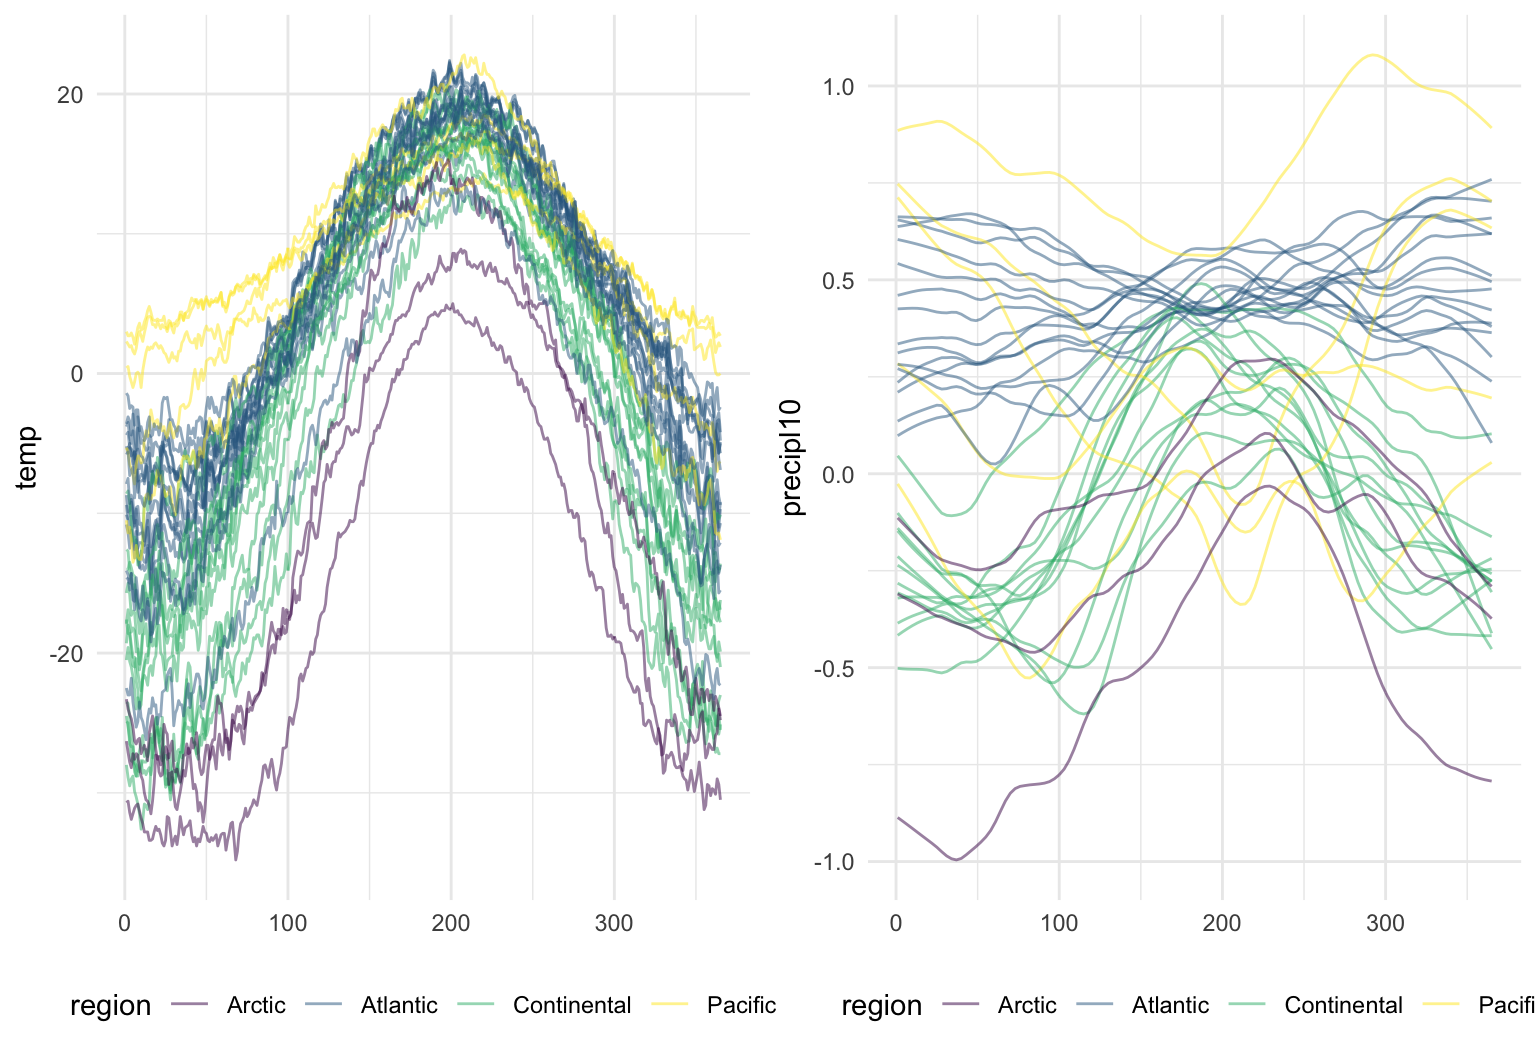
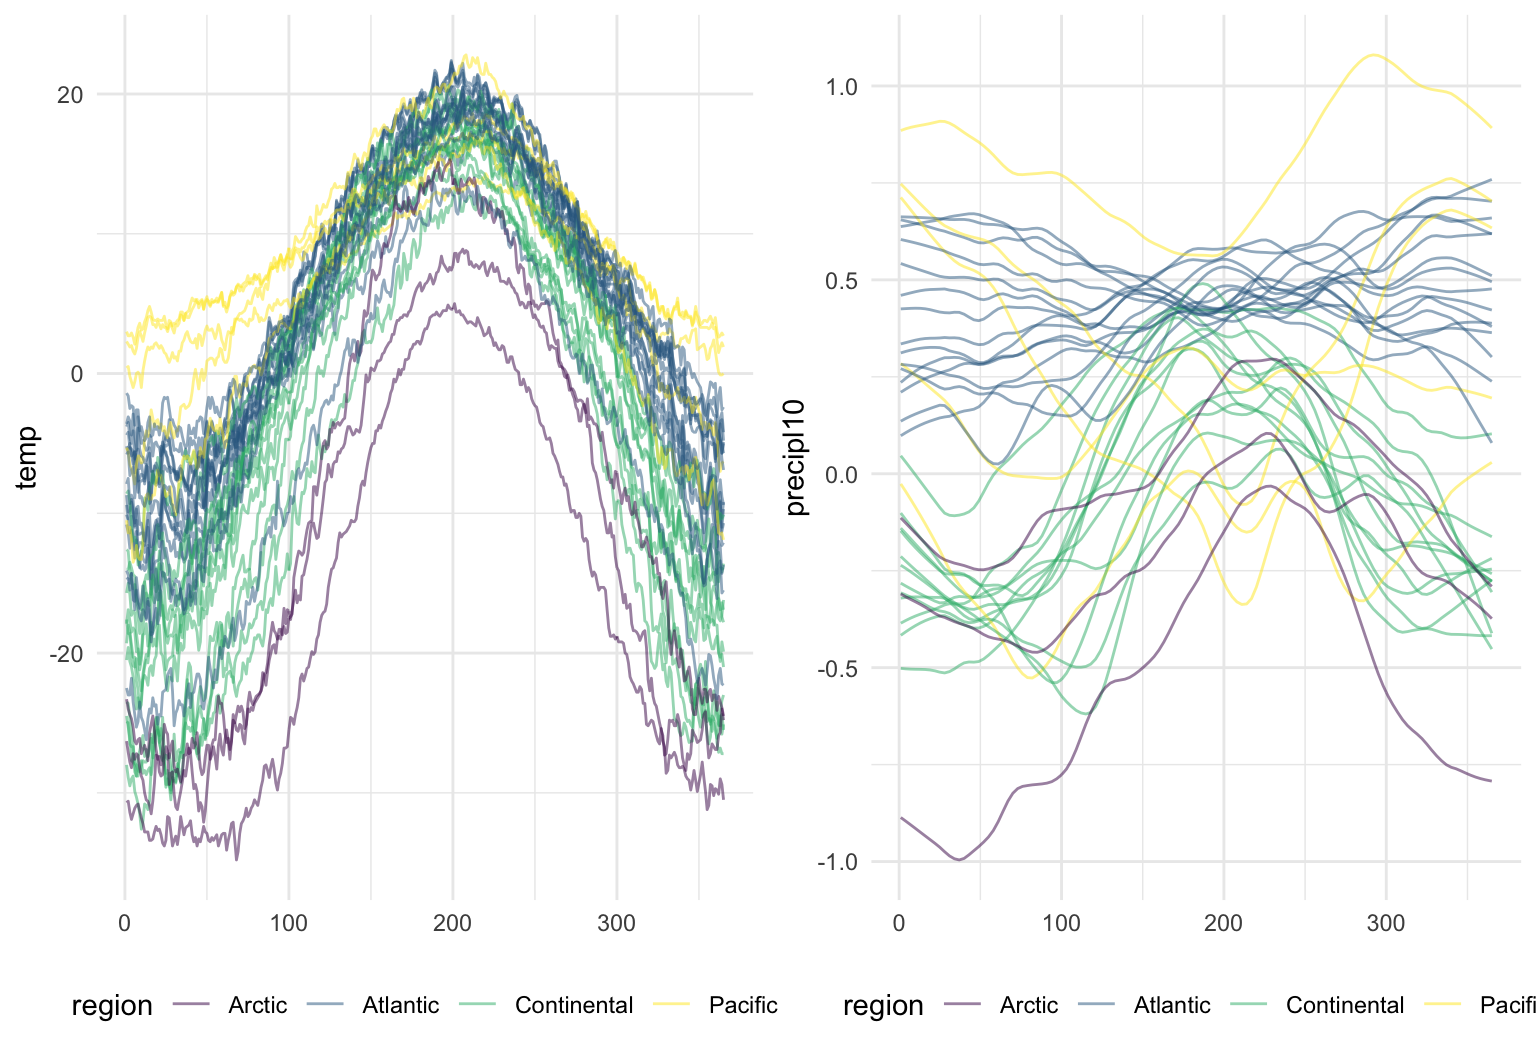
using gridExtra instead of patchwork (travis hates patchwork ...)

diff --git a/docs/articles/x02_Conversion.html b/docs/articles/x02_Conversion.html
@@ -140,7 +140,7 @@
 <a class="sourceLine" id="cb4-6" data-line-number="6"><span class="st">  </span>canada <span class="op">%&gt;%</span><span class="st"> </span></a>
 <a class="sourceLine" id="cb4-7" data-line-number="7"><span class="st">  </span><span class="kw">ggplot</span>(<span class="kw">aes</span>(<span class="dt">y =</span> precipl10, <span class="dt">color =</span> region)) <span class="op">+</span><span class="st"> </span><span class="kw"><a href="../reference/ggspaghetti.html">geom_spaghetti</a></span>() </a>
 <a class="sourceLine" id="cb4-8" data-line-number="8"></a>
-<a class="sourceLine" id="cb4-9" data-line-number="9">temp_panel <span class="op">+</span><span class="st"> </span>precip_panel</a></code></pre></div>
+<a class="sourceLine" id="cb4-9" data-line-number="9">gridExtra<span class="op">::</span><span class="kw"><a href="https://www.rdocumentation.org/packages/gridExtra/topics/arrangeGrob">grid.arrange</a></span>(temp_panel, precip_panel, <span class="dt">nrow =</span> <span class="dv">1</span>)</a></code></pre></div>
 <p><img src="x02_Conversion_files/figure-html/unnamed-chunk-4-1.png" width="90%"></p>
 </div>
 <div id="from-data-frame" class="section level2">
@@ -200,21 +200,7 @@
 <a class="sourceLine" id="cb9-2" data-line-number="2"><span class="st">  </span><span class="kw">group_by</span>(id) <span class="op">%&gt;%</span><span class="st"> </span></a>
 <a class="sourceLine" id="cb9-3" data-line-number="3"><span class="st">  </span><span class="kw">mutate</span>(<span class="dt">n_obs =</span> <span class="kw">n</span>()) <span class="op">%&gt;%</span><span class="st"> </span></a>
 <a class="sourceLine" id="cb9-4" data-line-number="4"><span class="st">  </span><span class="kw"><a href="https://www.rdocumentation.org/packages/stats/topics/filter">filter</a></span>(n_obs <span class="op">&gt;</span><span class="st"> </span><span class="dv">1</span>) <span class="op">%&gt;%</span><span class="st"> </span></a>
-<a class="sourceLine" id="cb9-5" data-line-number="5"><span class="st">  </span><span class="kw"><a href="../reference/tf_nest.html">tf_nest</a></span>(logFEV1, height, <span class="dt">.arg =</span> age)</a>
-<a class="sourceLine" id="cb9-6" data-line-number="6"><span class="co">## # A tibble: 252 x 6</span></a>
-<a class="sourceLine" id="cb9-7" data-line-number="7"><span class="co">##    id     age0 height0 n_obs logFEV1                   height              </span></a>
-<a class="sourceLine" id="cb9-8" data-line-number="8"><span class="co">##    &lt;fct&gt; &lt;dbl&gt;   &lt;dbl&gt; &lt;int&gt; &lt;tfd_irrg&gt;                &lt;tfd_irrg&gt;          </span></a>
-<a class="sourceLine" id="cb9-9" data-line-number="9"><span class="co">##  1 1      9.34    1.2      7 1: ( 9.3,  0.22);(10.4, … 1: ( 9.3,1.2);(10.4…</span></a>
-<a class="sourceLine" id="cb9-10" data-line-number="10"><span class="co">##  2 2      6.59    1.13     8 2: ( 6.6,  0.31);( 7.6, … 2: ( 6.6,1.1);( 7.6…</span></a>
-<a class="sourceLine" id="cb9-11" data-line-number="11"><span class="co">##  3 3      6.91    1.18     9 3: ( 6.9,  0.43);( 8.0, … 3: ( 6.9,1.2);( 8.0…</span></a>
-<a class="sourceLine" id="cb9-12" data-line-number="12"><span class="co">##  4 4      6.76    1.15    10 4: ( 6.8, 0.058);( 7.8, … 4: ( 6.8,1.1);( 7.8…</span></a>
-<a class="sourceLine" id="cb9-13" data-line-number="13"><span class="co">##  5 5      6.50    1.11     7 5: ( 6.5,  0.03);( 7.6, … 5: ( 6.5,1.1);( 7.6…</span></a>
-<a class="sourceLine" id="cb9-14" data-line-number="14"><span class="co">##  6 6      6.90    1.24    11 6: ( 6.9,  0.26);( 8.0, … 6: ( 6.9,1.2);( 8.0…</span></a>
-<a class="sourceLine" id="cb9-15" data-line-number="15"><span class="co">##  7 7      6.43    1.18     7 7: ( 6.4,-0.030);( 7.5, … 7: ( 6.4,1.2);( 7.5…</span></a>
-<a class="sourceLine" id="cb9-16" data-line-number="16"><span class="co">##  8 8      7.19    1.27     9 8: ( 7.2,  0.27);( 8.3, … 8: ( 7.2,1.3);( 8.3…</span></a>
-<a class="sourceLine" id="cb9-17" data-line-number="17"><span class="co">##  9 9      6.90    1.17     9 9: ( 6.9,  0.16);( 8.0, … 9: ( 6.9,1.2);( 8.0…</span></a>
-<a class="sourceLine" id="cb9-18" data-line-number="18"><span class="co">## 10 10     7.79    1.13    10 10: ( 7.8,  0.15);( 8.8,… 10: ( 7.8,1.1);( 8.…</span></a>
-<a class="sourceLine" id="cb9-19" data-line-number="19"><span class="co">## # … with 242 more rows</span></a></code></pre></div>
+<a class="sourceLine" id="cb9-5" data-line-number="5"><span class="st">  </span><span class="kw"><a href="../reference/tf_nest.html">tf_nest</a></span>(logFEV1, height, <span class="dt">.arg =</span> age)</a></code></pre></div>
 </div>
 <div id="in-wide-format" class="section level3">
 <h3 class="hasAnchor">
